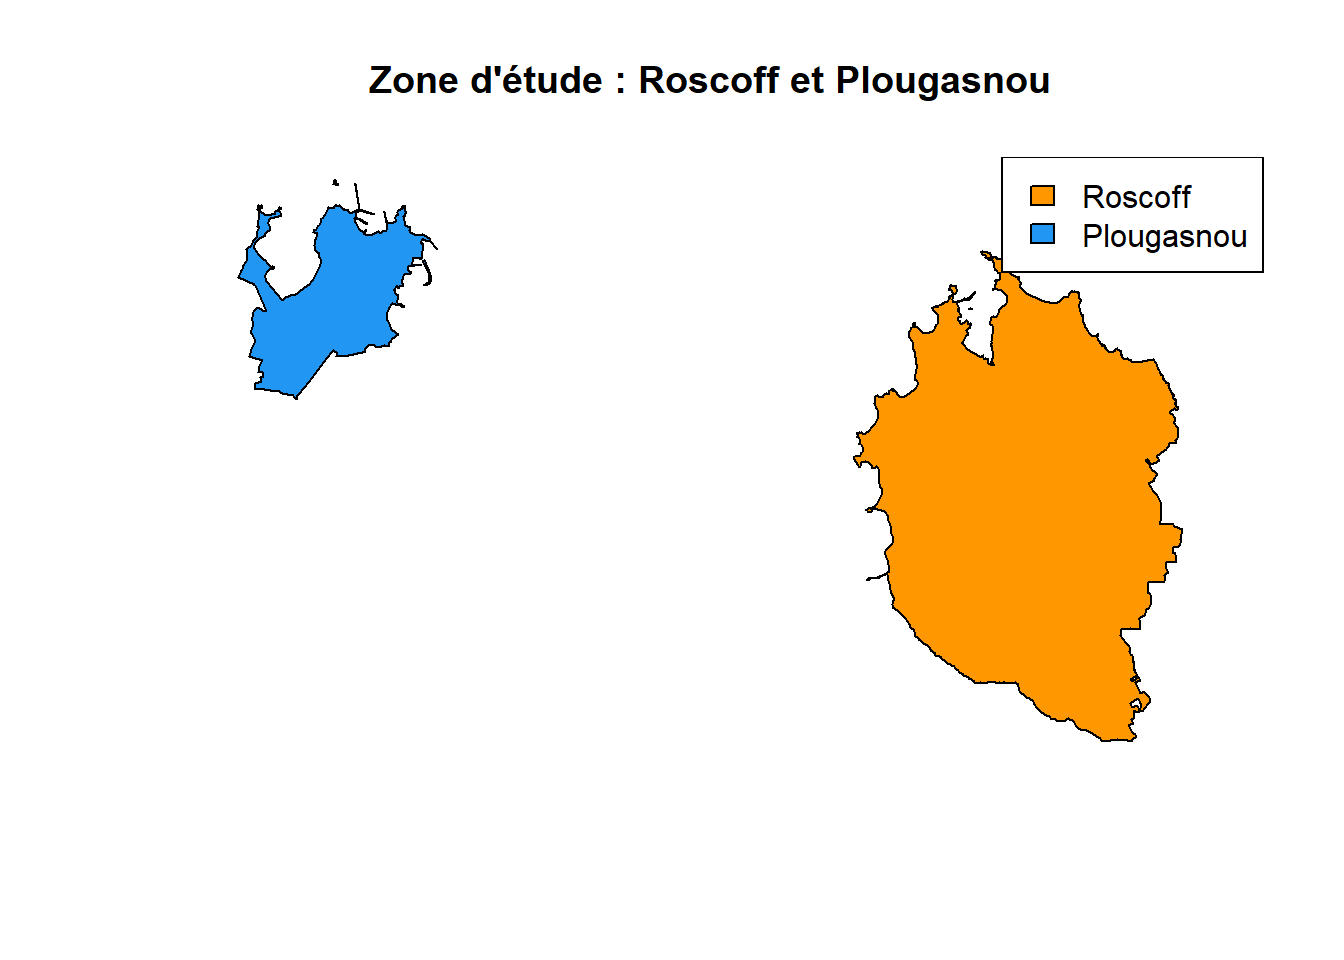
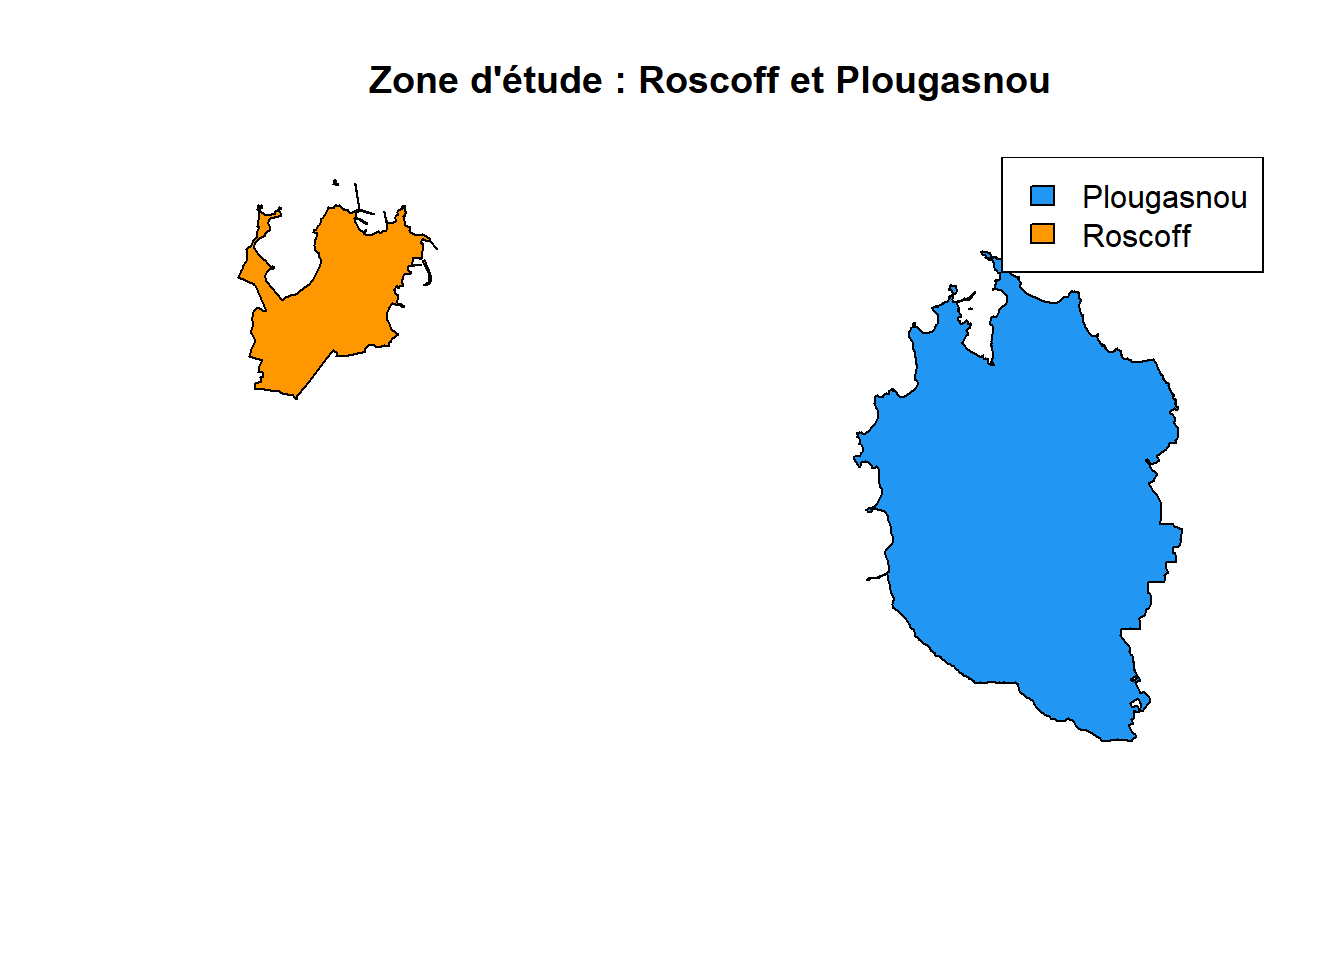
plougasnou bleu roscoff orange

diff --git a/docs/zones.html b/docs/zones.html
@@ -351,11 +351,14 @@ communes &lt;- get_wfs(x = zone,
 
 zone_etude &lt;- communes[communes$nom_officiel %in% c(&quot;Roscoff&quot;, &quot;Plougasnou&quot;), ]
 
+# Colorier explicitement chaque commune
+couleurs &lt;- ifelse(zone_etude$nom_officiel == &quot;Plougasnou&quot;, &quot;#2196F3&quot;, &quot;#FF9800&quot;)
+
 plot(st_geometry(zone_etude), 
-     col = c(&quot;#FF9800&quot;, &quot;#2196F3&quot;),
+     col = couleurs,
      main = &quot;Zone d&#39;étude : Roscoff et Plougasnou&quot;)
-legend(&quot;topright&quot;, legend = c(&quot;Roscoff&quot;, &quot;Plougasnou&quot;),
-       fill = c(&quot;#FF9800&quot;, &quot;#2196F3&quot;))</code></pre>
+legend(&quot;topright&quot;, legend = c(&quot;Plougasnou&quot;, &quot;Roscoff&quot;),
+       fill = c(&quot;#2196F3&quot;, &quot;#FF9800&quot;))</code></pre>
 <p><img src="zones_files/figure-html/communes-1.png" alt="" width="672" /></p>
 </div>
 <div id="b.-téléchargement-du-carreau-filosofi-insee"
@@ -369,15 +372,19 @@ zone_etude_proj &lt;- st_transform(zone_etude, 2154)
 idx &lt;- st_intersects(grille_proj, st_union(zone_etude_proj), sparse = FALSE)[,1]
 grille_zone &lt;- grille_proj[idx, ]
 
+couleurs_proj &lt;- ifelse(zone_etude_proj$nom_officiel == &quot;Plougasnou&quot;, &quot;#2196F3&quot;, &quot;#FF9800&quot;)
+
 plot(st_geometry(zone_etude_proj), 
-     col = c(&quot;#FF9800&quot;, &quot;#2196F3&quot;),
+     col = couleurs_proj,
      main = &quot;Carreau Filosofi 200m — Roscoff et Plougasnou&quot;)
 plot(st_geometry(grille_zone), 
      col = &quot;#eef2ff88&quot;, border = &quot;#818cf8&quot;, 
      add = TRUE)
 plot(st_geometry(zone_etude_proj), 
      col = NA, border = &quot;black&quot;, lwd = 2,
-     add = TRUE)</code></pre>
+     add = TRUE)
+legend(&quot;topright&quot;, legend = c(&quot;Plougasnou&quot;, &quot;Roscoff&quot;),
+       fill = c(&quot;#2196F3&quot;, &quot;#FF9800&quot;))</code></pre>
 <p><img src="zones_files/figure-html/filosofi-1.png" alt="" width="672" /></p>
 </div>
 <div id="c.-jointure-spatiale-sur-les-communes" class="section level2">
@@ -388,20 +395,20 @@ plot(st_geometry(zone_etude_proj),
      col = NA, border = &quot;black&quot;, lwd = 2,
      main = &quot;Carreau Filosofi découpé par commune&quot;)
 plot(st_geometry(grille_communes[!is.na(grille_communes$nom_officiel) &amp; 
-                                  grille_communes$nom_officiel == &quot;Roscoff&quot;, ]),
-     col = &quot;#fed7aa&quot;, border = &quot;#f97316&quot;, add = TRUE)
-plot(st_geometry(grille_communes[!is.na(grille_communes$nom_officiel) &amp; 
                                   grille_communes$nom_officiel == &quot;Plougasnou&quot;, ]),
      col = &quot;#bfdbfe&quot;, border = &quot;#3b82f6&quot;, add = TRUE)
+plot(st_geometry(grille_communes[!is.na(grille_communes$nom_officiel) &amp; 
+                                  grille_communes$nom_officiel == &quot;Roscoff&quot;, ]),
+     col = &quot;#fed7aa&quot;, border = &quot;#f97316&quot;, add = TRUE)
 legend(&quot;topright&quot;, 
-       legend = c(&quot;Roscoff&quot;, &quot;Plougasnou&quot;),
-       fill = c(&quot;#fed7aa&quot;, &quot;#bfdbfe&quot;))</code></pre>
+       legend = c(&quot;Plougasnou&quot;, &quot;Roscoff&quot;),
+       fill = c(&quot;#bfdbfe&quot;, &quot;#fed7aa&quot;))</code></pre>
 <p><img src="zones_files/figure-html/jointure-1.png" alt="" width="672" /></p>
 </div>
 <div id="d.-schéma-du-géotraitement" class="section level2">
 <h2>D. Schéma du géotraitement</h2>
-<div class="grViz html-widget html-fill-item" id="htmlwidget-c061f07959d1a60a5d06" style="width:672px;height:480px;"></div>
-<script type="application/json" data-for="htmlwidget-c061f07959d1a60a5d06">{"x":{"diagram":"\ndigraph geotraitement {\n  graph [layout = dot, rankdir = TB, fontname = \"Helvetica\"]\n  node [fontname = \"Helvetica\", fontsize = 11]\n\n  Start [label = \"Analyse Géotraitement\nPlougasnou vs Roscoff\", shape = oval, style = filled, fillcolor = \"#fdf4ff\", color = \"#e879f9\"]\n  BranchA [label = \"Branche A:\nAnalyse Physique\", shape = rectangle, style = filled, fillcolor = \"#f8fafc\", color = \"#94a3b8\"]\n  BranchB [label = \"Branche B:\nAnalyse Socio-Économique\", shape = rectangle, style = filled, fillcolor = \"#f8fafc\", color = \"#94a3b8\"]\n  InputA1 [label = \"INPUT Raster:\nMNT RGE Alti\nvia happign\", shape = rectangle, style = filled, fillcolor = \"#eef2ff\", color = \"#818cf8\"]\n  InputA2 [label = \"INPUT Vecteur:\nEmplacement Éoliennes\nPoints\", shape = rectangle, style = filled, fillcolor = \"#eef2ff\", color = \"#818cf8\"]\n  TraitA [label = \"TRAITEMENT terra:\nCalcul Viewshed\nBassin de visibilité\", shape = rectangle, style = filled, fillcolor = \"#f0fdfa\", color = \"#2dd4bf\"]\n  OutputA [label = \"OUTPUT:\nRaster Visibilité\nPixel: 1=vu, 0=non-vu\", shape = rectangle, style = filled, fillcolor = \"#f5f3ff\", color = \"#a78bfa\"]\n  InputB1 [label = \"INPUT Vecteur:\nCarroyage Filosofi 200m\nINSEE\", shape = rectangle, style = filled, fillcolor = \"#eef2ff\", color = \"#818cf8\"]\n  InputB2 [label = \"INPUT Vecteur:\nLimites Communales\nvia happign\", shape = rectangle, style = filled, fillcolor = \"#eef2ff\", color = \"#818cf8\"]\n  TraitB1 [label = \"TRAITEMENT sf:\nDécoupage\nst_intersection\", shape = rectangle, style = filled, fillcolor = \"#f0fdfa\", color = \"#2dd4bf\"]\n  TraitB2 [label = \"Jointure Attributaire\nleft_join\nRevenus + Résidences sec.\", shape = rectangle, style = filled, fillcolor = \"#f0fdfa\", color = \"#2dd4bf\"]\n  OutputB [label = \"OUTPUT:\nCarroyage Enrichi\nDonnées Socio-Éco\", shape = rectangle, style = filled, fillcolor = \"#f5f3ff\", color = \"#a78bfa\"]\n  Convergence [label = \"Convergence:\nSynthèse Spatiale\", shape = rectangle, style = filled, fillcolor = \"#fff7ed\", color = \"#fb923c\"]\n  Cross [label = \"CROISEMENT:\nSuperposition\nRaster Visibilité +\nCarroyage Enrichi\", shape = rectangle, style = filled, fillcolor = \"#fff7ed\", color = \"#fb923c\"]\n  Final [label = \"RÉSULTAT FINAL:\nCarte Synthétique\nVisibilité + Résidences sec.\n+ Revenus\", shape = oval, style = filled, fillcolor = \"#fdf4ff\", color = \"#e879f9\"]\n\n  Start -> BranchA\n  Start -> BranchB\n  BranchA -> InputA1\n  BranchA -> InputA2\n  InputA1 -> TraitA\n  InputA2 -> TraitA\n  TraitA -> OutputA\n  BranchB -> InputB1\n  BranchB -> InputB2\n  InputB1 -> TraitB1\n  InputB2 -> TraitB1\n  TraitB1 -> TraitB2\n  TraitB2 -> OutputB\n  OutputA -> Convergence\n  OutputB -> Convergence\n  Convergence -> Cross\n  Cross -> Final\n}\n","config":{"engine":"dot","options":null}},"evals":[],"jsHooks":[]}</script>
+<div class="grViz html-widget html-fill-item" id="htmlwidget-098f82dbf82f3b93f5d1" style="width:672px;height:480px;"></div>
+<script type="application/json" data-for="htmlwidget-098f82dbf82f3b93f5d1">{"x":{"diagram":"\ndigraph geotraitement {\n  graph [layout = dot, rankdir = TB, fontname = \"Helvetica\"]\n  node [fontname = \"Helvetica\", fontsize = 11]\n\n  Start [label = \"Analyse Géotraitement\nPlougasnou vs Roscoff\", shape = oval, style = filled, fillcolor = \"#fdf4ff\", color = \"#e879f9\"]\n  BranchA [label = \"Branche A:\nAnalyse Physique\", shape = rectangle, style = filled, fillcolor = \"#f8fafc\", color = \"#94a3b8\"]\n  BranchB [label = \"Branche B:\nAnalyse Socio-Économique\", shape = rectangle, style = filled, fillcolor = \"#f8fafc\", color = \"#94a3b8\"]\n  InputA1 [label = \"INPUT Raster:\nMNT RGE Alti\nvia happign\", shape = rectangle, style = filled, fillcolor = \"#eef2ff\", color = \"#818cf8\"]\n  InputA2 [label = \"INPUT Vecteur:\nEmplacement Éoliennes\nPoints\", shape = rectangle, style = filled, fillcolor = \"#eef2ff\", color = \"#818cf8\"]\n  TraitA [label = \"TRAITEMENT terra:\nCalcul Viewshed\nBassin de visibilité\", shape = rectangle, style = filled, fillcolor = \"#f0fdfa\", color = \"#2dd4bf\"]\n  OutputA [label = \"OUTPUT:\nRaster Visibilité\nPixel: 1=vu, 0=non-vu\", shape = rectangle, style = filled, fillcolor = \"#f5f3ff\", color = \"#a78bfa\"]\n  InputB1 [label = \"INPUT Vecteur:\nCarroyage Filosofi 200m\nINSEE\", shape = rectangle, style = filled, fillcolor = \"#eef2ff\", color = \"#818cf8\"]\n  InputB2 [label = \"INPUT Vecteur:\nLimites Communales\nvia happign\", shape = rectangle, style = filled, fillcolor = \"#eef2ff\", color = \"#818cf8\"]\n  TraitB1 [label = \"TRAITEMENT sf:\nDécoupage\nst_intersection\", shape = rectangle, style = filled, fillcolor = \"#f0fdfa\", color = \"#2dd4bf\"]\n  TraitB2 [label = \"Jointure Attributaire\nleft_join\nRevenus + Résidences sec.\", shape = rectangle, style = filled, fillcolor = \"#f0fdfa\", color = \"#2dd4bf\"]\n  OutputB [label = \"OUTPUT:\nCarroyage Enrichi\nDonnées Socio-Éco\", shape = rectangle, style = filled, fillcolor = \"#f5f3ff\", color = \"#a78bfa\"]\n  Convergence [label = \"Convergence:\nSynthèse Spatiale\", shape = rectangle, style = filled, fillcolor = \"#fff7ed\", color = \"#fb923c\"]\n  Cross [label = \"CROISEMENT:\nSuperposition\nRaster Visibilité +\nCarroyage Enrichi\", shape = rectangle, style = filled, fillcolor = \"#fff7ed\", color = \"#fb923c\"]\n  Final [label = \"RÉSULTAT FINAL:\nCarte Synthétique\nVisibilité + Résidences sec.\n+ Revenus\", shape = oval, style = filled, fillcolor = \"#fdf4ff\", color = \"#e879f9\"]\n\n  Start -> BranchA\n  Start -> BranchB\n  BranchA -> InputA1\n  BranchA -> InputA2\n  InputA1 -> TraitA\n  InputA2 -> TraitA\n  TraitA -> OutputA\n  BranchB -> InputB1\n  BranchB -> InputB2\n  InputB1 -> TraitB1\n  InputB2 -> TraitB1\n  TraitB1 -> TraitB2\n  TraitB2 -> OutputB\n  OutputA -> Convergence\n  OutputB -> Convergence\n  Convergence -> Cross\n  Cross -> Final\n}\n","config":{"engine":"dot","options":null}},"evals":[],"jsHooks":[]}</script>
 </div>
 <div id="e.-le-format-geopackage-.gpkg" class="section level2">
 <h2>E. Le format GeoPackage (.gpkg)</h2>